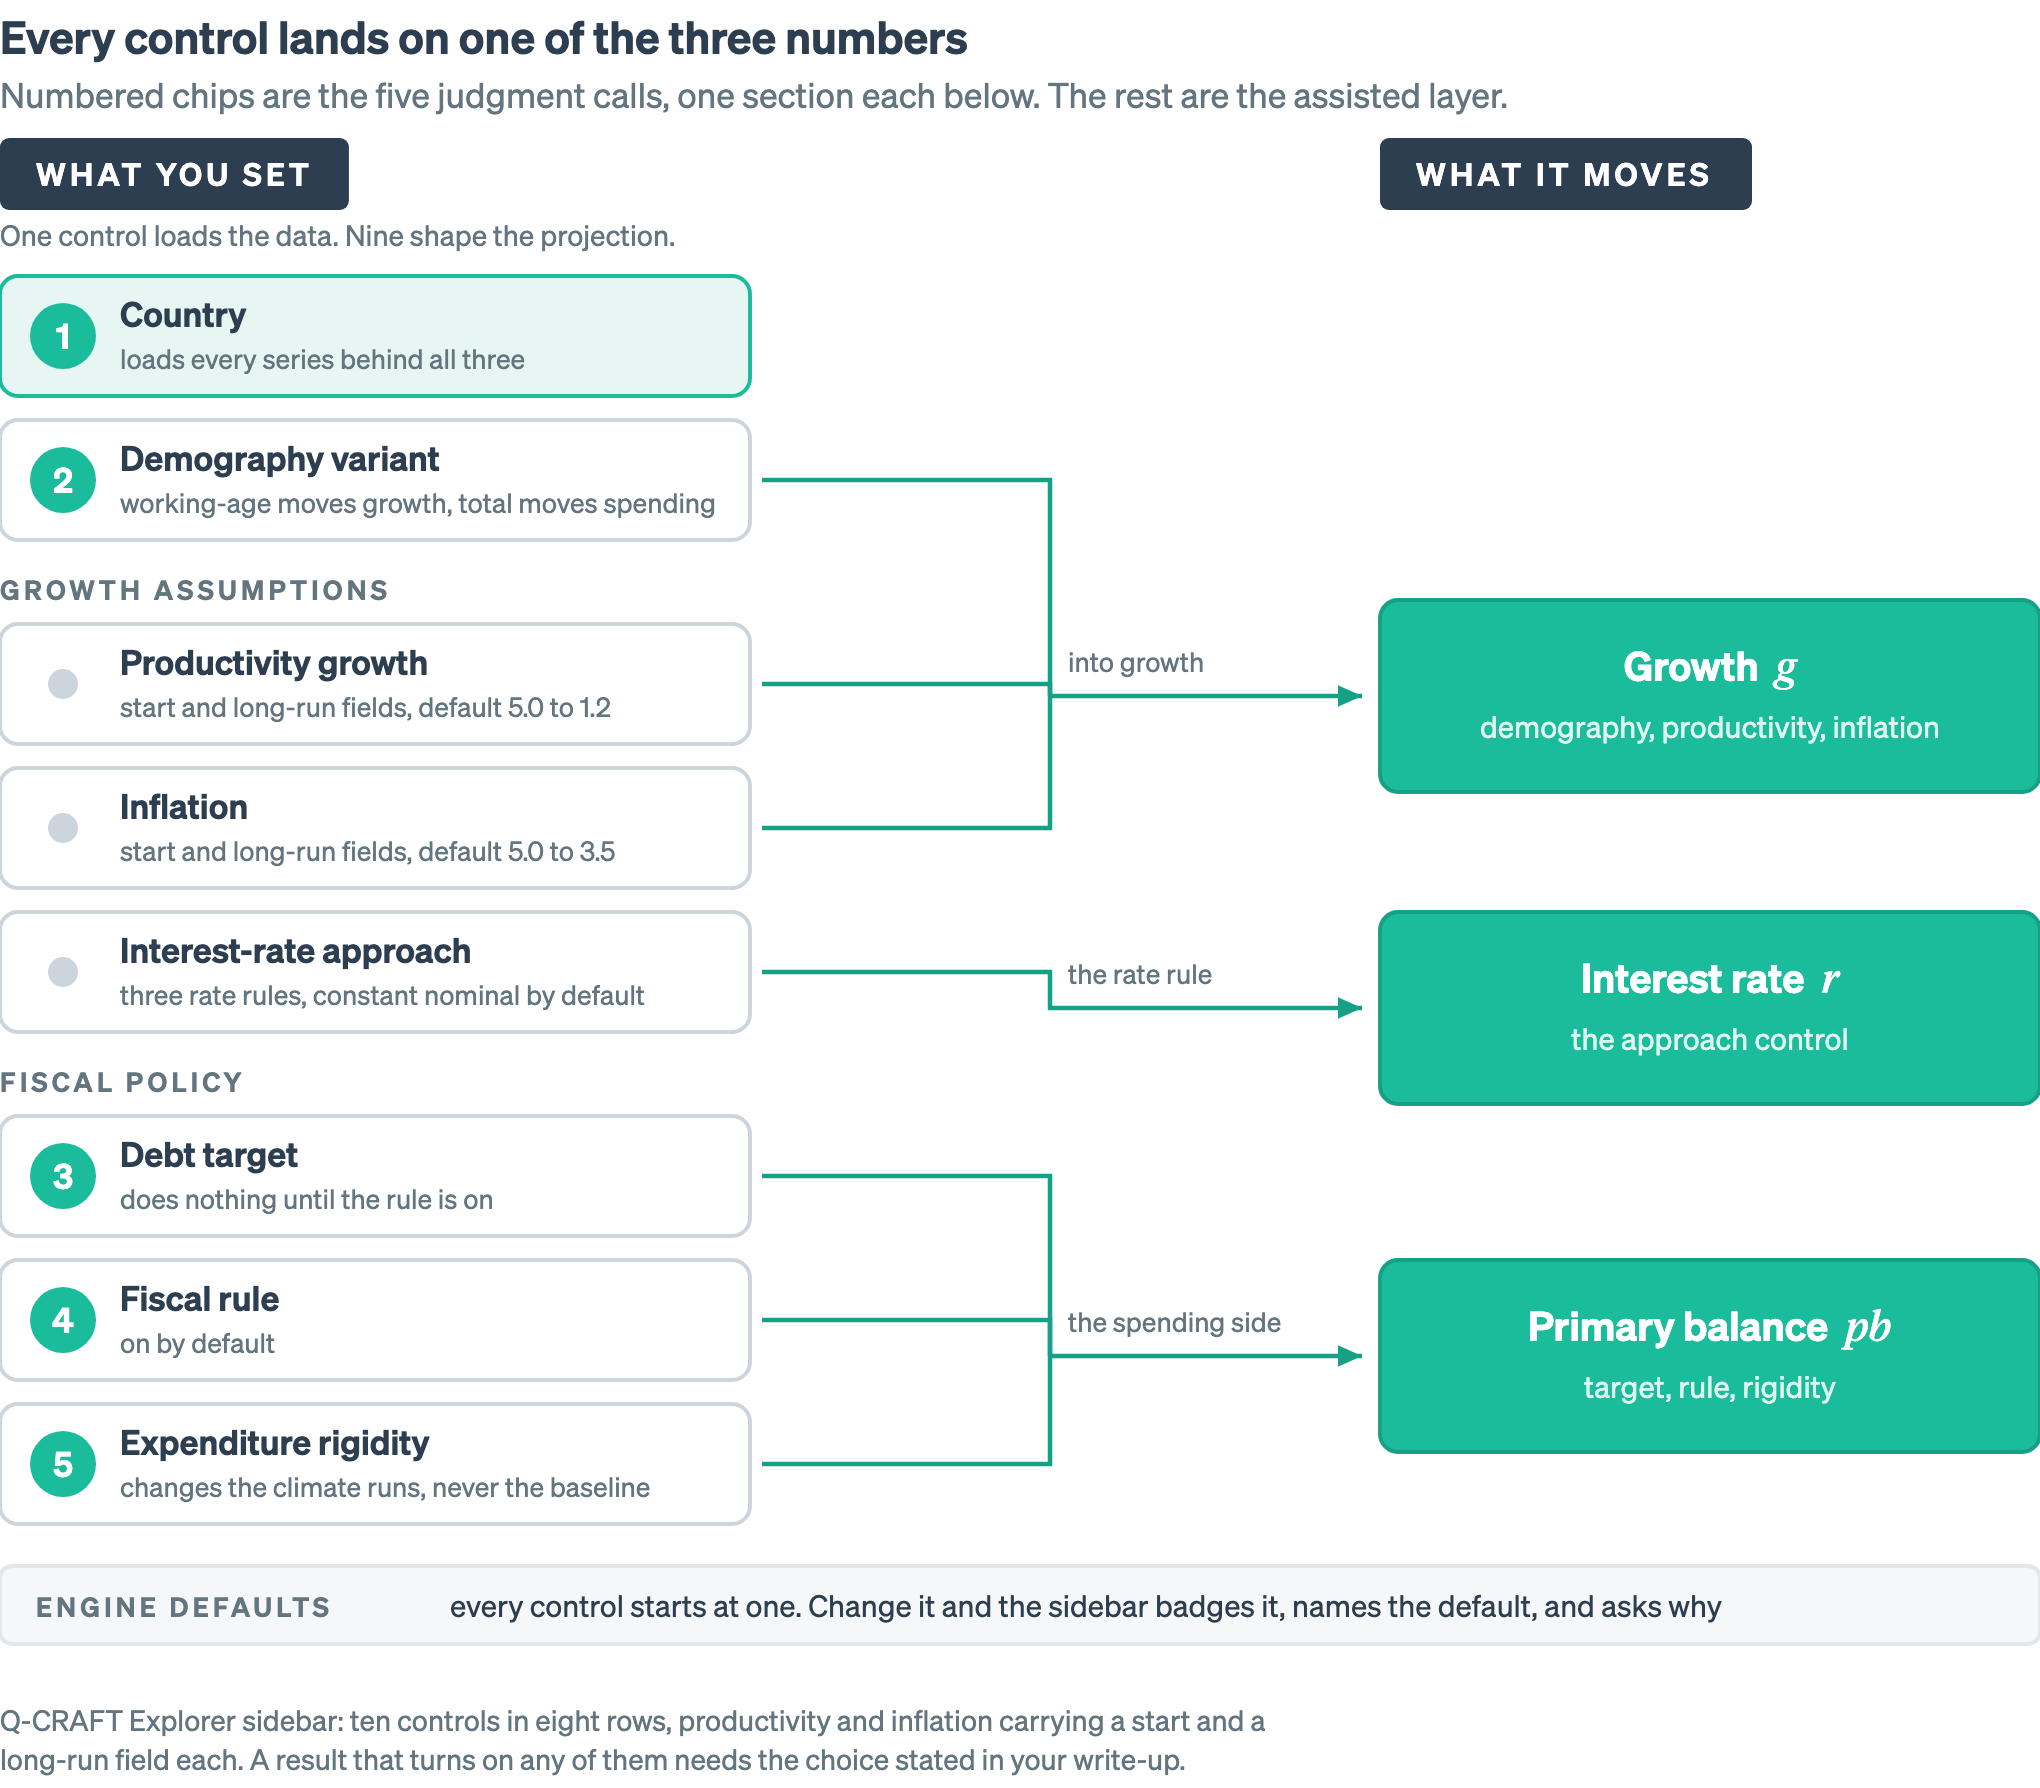
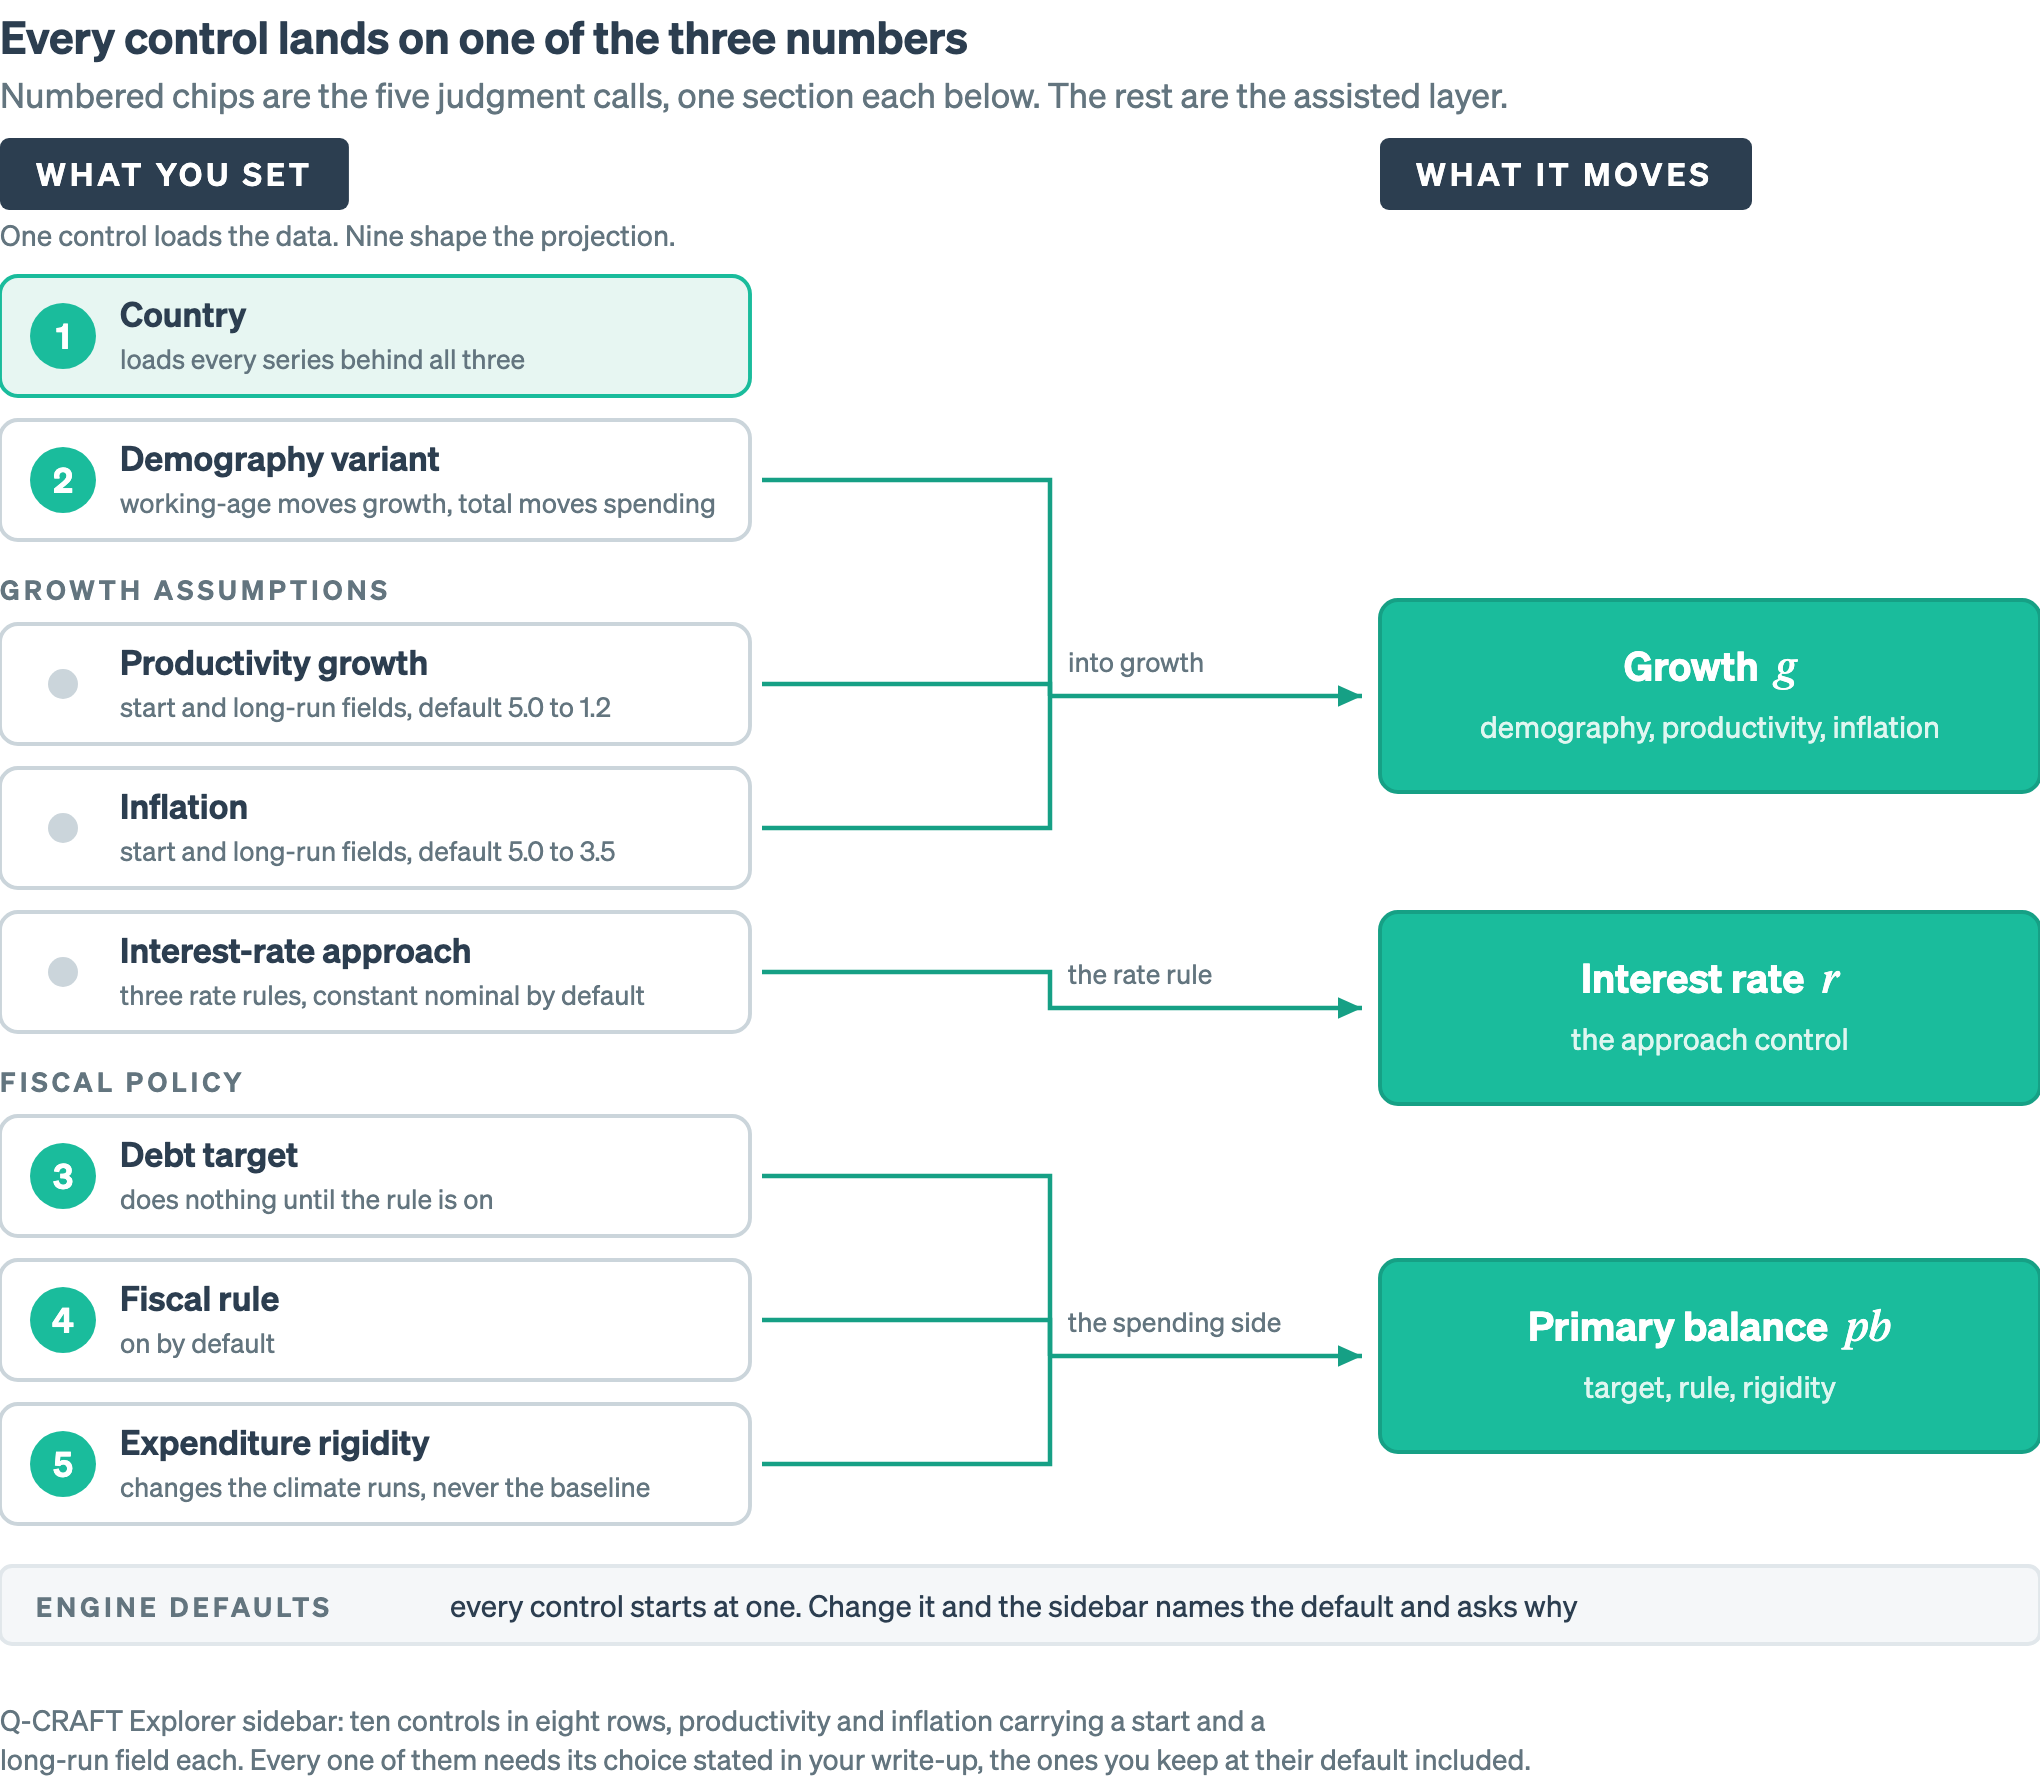
course: one defaults standard, and where the retained line actually goes
The review's Artifact 2 finding 4: the chapter said an undocumented
default makes the analysis "unusable, because it cannot be defended",
and then said "An untouched default needs nothing beyond its name."

One standard now, in two tiers, stated once and propagated across the
fourteen sites a sweep found. A changed value needs evidence. A retained
default needs a short line saying it was reviewed and kept, with the
reason. Where a parameter's own section asks for more, and four of the
five core calls want a second run beside the line, the more stands.

The standard is not executable in the sidebar and the chapter now says
so. The Explorer opens its "Why this value?" field only on a control
you have moved, in three independent statements the course makes, so a
reviewed-and-kept confirmation has nowhere on screen to go. Rather than
promise an affordance that does not exist, the chapter routes those
lines to the run label and analyst's note, which are not gated on
CHANGED. Whether the CONTEXT panel's computed sentence can be added at
a default is the one thing this round could not settle, and it is in the
run report rather than written on inference.

The controls figure was contradicting the prose beside it, carrying the
old conditional standard baked into its SVG, so the generator was edited
and the SVG and PNG regenerated.

Also here: the six predict-observe-explain cards and five "Document
it" cards become plain numbered steps under headings that name the
[…]

Changed region(s): [[0.1235, 0.9843, 0.7412, 1.0], [0.5868, 0.8921, 0.8338, 0.9228]]

diff --git a/scripts/build_exhibits.py b/scripts/build_exhibits.py
@@ -1307,7 +1307,7 @@ def figure_controls() -> str:
     strip = box(0, 522, VIEW_W, 26)
     body.append(rect(strip, SOFT, PANEL_LINE, r=4))
     body.append(caps(12, 539, "Engine defaults", 9, MUTED))
-    body.append(text(150, 539, "every control starts at one. Change it and the sidebar badges it, names the default, and asks why", 10, INK))
+    body.append(text(150, 539, "every control starts at one. Change it and the sidebar names the default and asks why", 10, INK))
 
     return frame(
         height,
@@ -1315,7 +1315,7 @@ def figure_controls() -> str:
         "Numbered chips are the five judgment calls, one section each below. The rest are the assisted layer.",
         [
             "Q-CRAFT Explorer sidebar: ten controls in eight rows, productivity and inflation carrying a start and a",
-            "long-run field each. A result that turns on any of them needs the choice stated in your write-up.",
+            "long-run field each. Every one of them needs its choice stated in your write-up, the ones you keep at their default included.",
         ],
         "".join(body),
     )
@@ -1799,8 +1799,9 @@ CAPTIONS = {
     ),
     "m4-fan-readings": (
         "These are the Explorer's own numbers, on the WEO October 2024 vintage at its "
-        "default settings. They run well above the published 2023 workshop figures quoted "
-        "in this module, and the whole of that difference is vintage and parameter choice."
+        "default settings. Read them scenario by scenario against the published 2023 "
+        "workshop figures quoted in this module: the baselines nearly agree, and under Hot "
+        "the two runs are 28 points apart on vintage and parameter choice alone."
     ),
     "m5-exclusions": (
         "Each exclusion carries the User Guide page that documents it, so the list is "
